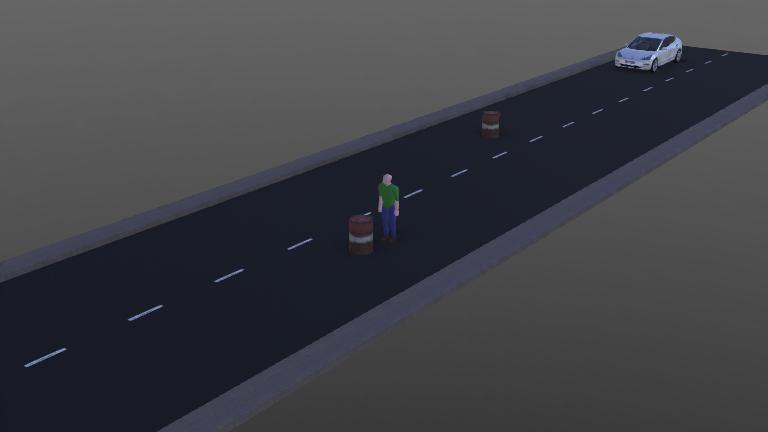
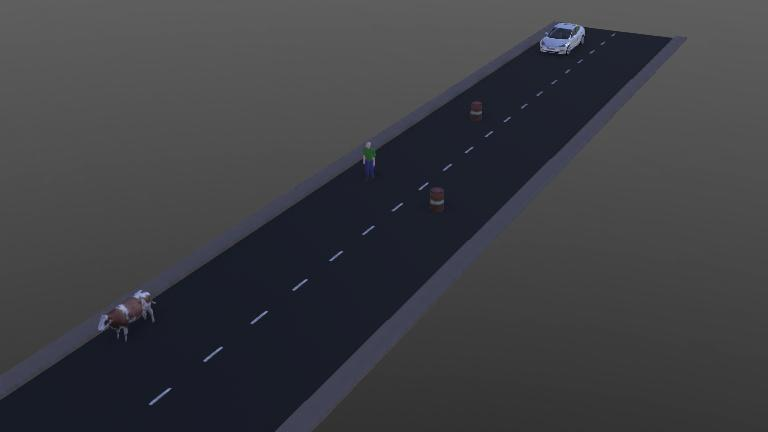
updates_UDR

diff --git a/controllers/tesla_controller/tesla_controller.py b/controllers/tesla_controller/tesla_controller.py
@@ -30,7 +30,15 @@ class CustomCarEnv(DeepbotsSupervisorEnv):
     def __init__(self):
         #super().__init__()
         
+
+        #initializing obstacles
+        self.num_obstacles = 4
+        self.obstacles = []
+
+        for i in range(self.num_obstacles):
+            self.obstacles.append(self.robot.getFromDef(f"obstacle_{i+1}"))
         
+
         self.timestep = int(self.robot.getBasicTimeStep())
 
         self.MAX_SPEED = 100
@@ -239,17 +247,65 @@ class CustomCarEnv(DeepbotsSupervisorEnv):
         
         return reward, terminated
 
+    def apply_UDR_to_obstacles(self): #to apply uniform domain randomization
         
+        range_x = [10,80]
+        range_y = [-3.5,3.5]
+        z = 0.4
+
+        placed_positions = []
+
+        for obstacle in self.obstacles:
+            is_position_valid = False
+            while not is_position_valid:
+                # Genera una nuova posizione casuale
+                new_x = np.random.uniform(range_x[0], range_x[1])
+                new_y = np.random.uniform(range_y[0], range_y[1])
+                new_position = [new_x, new_y, z]
+
+                # Controlla che non sia troppo vicino a un altro ostacolo
+                is_overlapping = any(
+                    np.linalg.norm(np.array(new_position[:2]) - np.array(pos[:2])) < 3
+                    for pos in placed_positions
+                )
+
+                if not is_overlapping:
+                    is_position_valid = True
+
+            # Applica la nuova posizione valida e salvala
+            obstacle.getField('translation').setSFVec3f(new_position)
+            placed_positions.append(new_position)
+    
+    def apply_UDR_to_tesla(self):
+        
+        range_x = [0,5]
+        range_y = [-2,2]
+        new_z = 0.6
+        range_yaw = [-0.3,0.3] #in radiants
+
+        new_x = np.random.uniform(range_x[0],range_x[1])
+        new_y = np.random.uniform(range_y[0],range_y[1])
+        new_yaw = np.random.uniform(range_yaw[0],range_yaw[1])
+
+        new_pos = [new_x,new_y,new_z]
+        new_rot = [0.0,0.0,1.0,new_yaw]
+
+        self.tesla_translation.setSFVec3f(new_pos)
+        self.tesla_rotation.setSFRotation(new_rot)
+
+
     def reset(self):
 
         # Resetta la posizione e velocità della Tesla
-        initial_translation = [0.0, -2.0, 0.6]
-        initial_rotation = [0.0, 0.0, 1.0, 0.0]
-        self.tesla_translation.setSFVec3f(initial_translation)
-        self.tesla_rotation.setSFRotation(initial_rotation)
+        #initial_translation = [0.0, -2.0, 0.6]
+        #initial_rotation = [0.0, 0.0, 1.0, 0.0]
+        #self.tesla_translation.setSFVec3f(initial_translation)
+        #self.tesla_rotation.setSFRotation(initial_rotation)
         self.car_node.setVelocity([0, 0, 0, 0, 0, 0])
         self.left_motor.setVelocity(0.0)
         self.right_motor.setVelocity(0.0)
+        self.apply_UDR_to_obstacles()
+        self.apply_UDR_to_tesla()
 
         # Resetta la simulazione
         self.robot.simulationResetPhysics()

diff --git a/test.py b/test.py
@@ -3,7 +3,7 @@ from webots_remote_env import WebotsRemoteEnv
 from stable_baselines3 import SAC
 
 env = WebotsRemoteEnv()
-model = SAC.load("models/SAC_minimal_tesla_2.mdl")
+model = SAC.load("models/SAC_minimal_tesla_3.mdl")
 test_episodes = 100
 
 for i in range(test_episodes):
